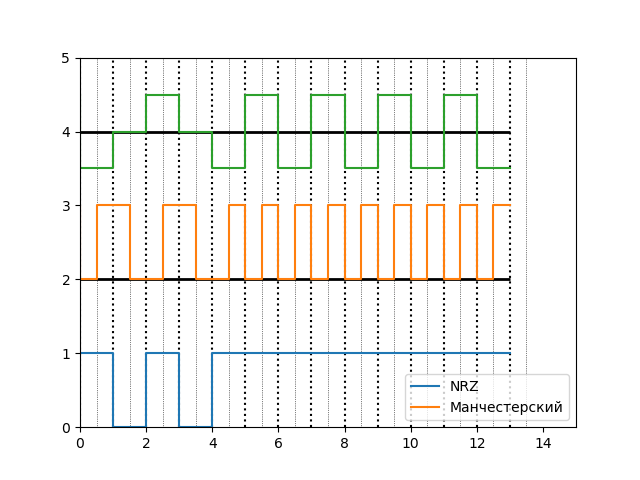
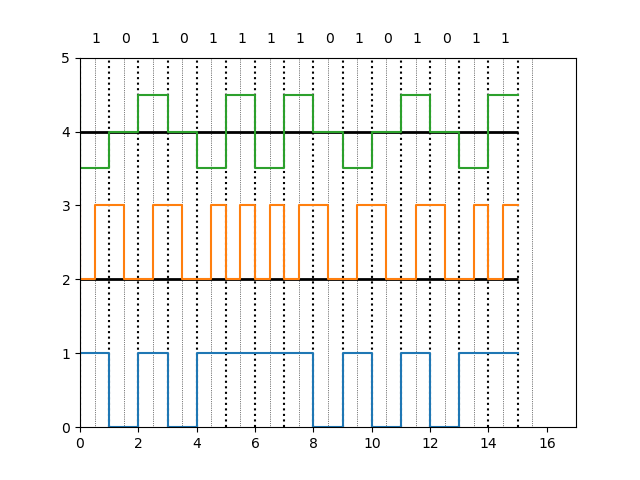
2
1

diff --git a/QRCode.py b/QRCode.py
@@ -31,7 +31,14 @@ def code(data):
     print(x)
     plt.cla ()
     #https://matplotlib.org/3.3.1/gallery/lines_bars_and_markers/eventcollection_demo.html#sphx-glr-gallery-lines-bars-and-markers-eventcollection-demo-py
-    plt.step(x, y, label='NRZ')
+    j=0
+    for i in s1:
+        plt.text(0.4 + j, 5.2, i)
+        j+=1
+    '''plt.text(-1, 0, "NRZ")
+    plt.text(-1, 2, "Manch")
+    plt.text(-1, 4, "AMI")'''
+    plt.step(x, y, label="NRZ")
 
     y2 = []
     for i in y:
@@ -70,9 +77,9 @@ def code(data):
     y2 = np.array(y2)
     print(y2)
     print(x2)
-    plt.step(x2, y2, label='Манчестерский')
+    plt.step(x2, y2, label="Manch")
 
-    plt.legend()
+
     plt.xlim(0, len(y) + 1)
     plt.ylim(min(y), max(y) + 4)
 
@@ -98,13 +105,14 @@ def code(data):
     print(len(x3))
     print(len(y3))
     y3 = np.array(y3)
-    plt.step(x3, y3, label = 'AMI')
+
+    plt.step(x3, y3, label="AMI")
     plt.ylim(0,5)
     plt.savefig('web/foo.png')
 
     
     print("Save to Image")
-    
+    plt.legend()
     
 
     buf = io.BytesIO()
